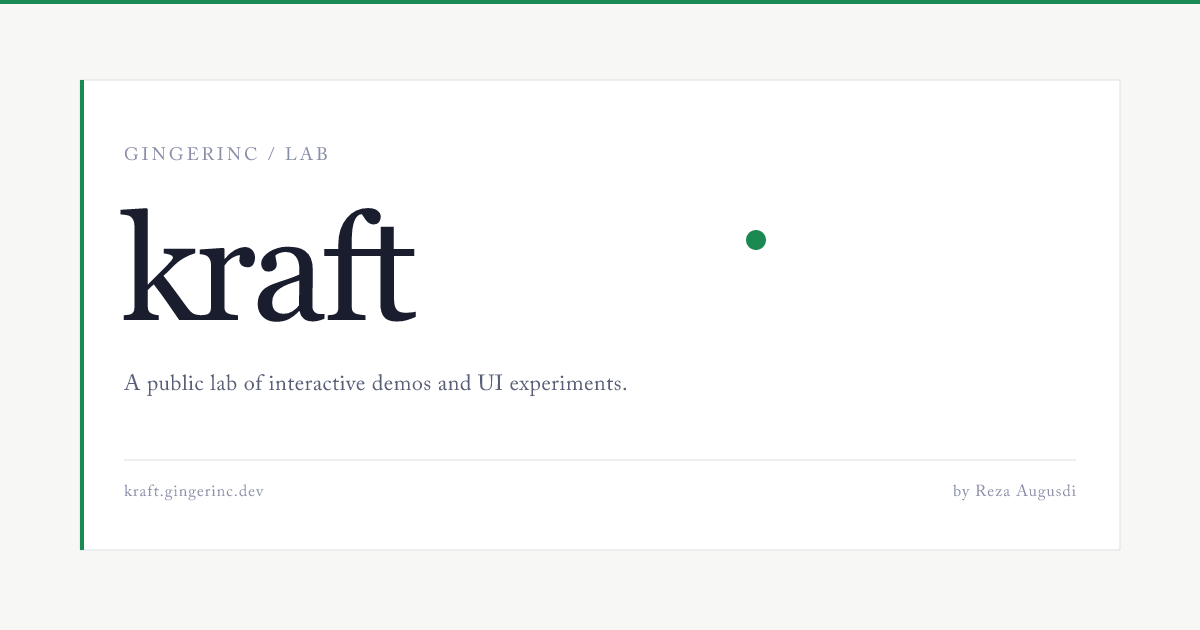
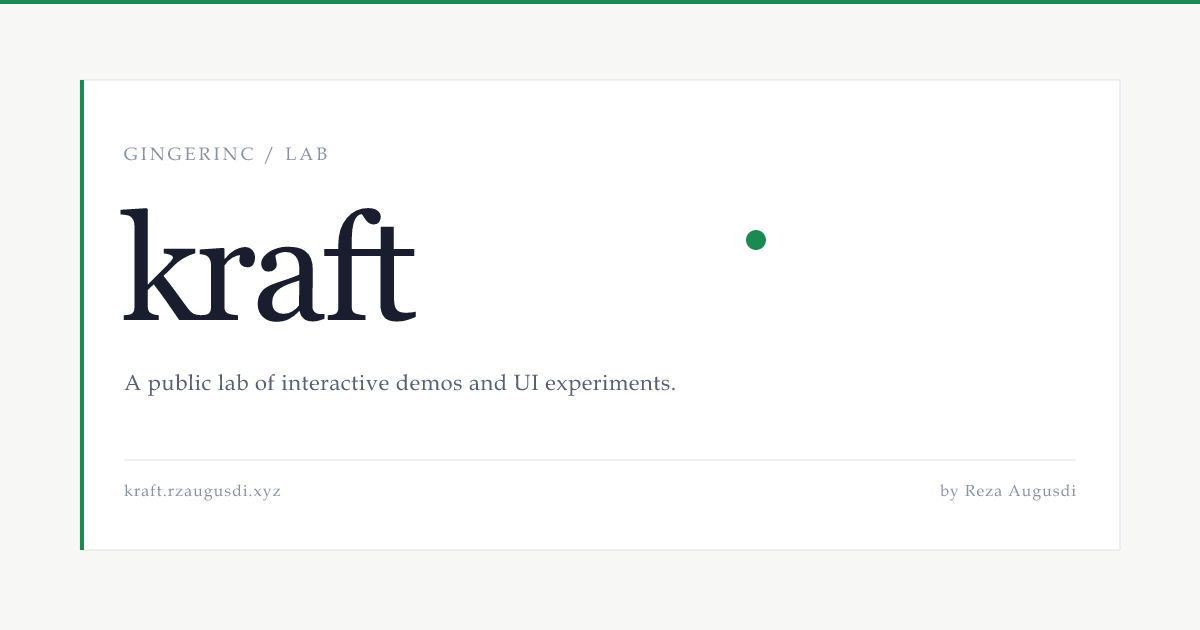
feat: configure Kraft custom domain

diff --git a/README.md b/README.md
@@ -1,0 +1,11 @@
+# kraft
+
+A public lab of interactive experiments at https://kraft.rzaugusdi.xyz.
+
+## Domain configuration
+
+Edit `SITE_URL` in `site.config.mjs` to change the canonical domain, and `PERSONAL_SITE_URL` for the portfolio link. Run `bun --bun run build` to regenerate metadata and the social image, then deploy. Connect the new domain and configure its DNS separately in Vercel and the authoritative DNS provider.
+
+## Development
+
+`bun install`, then `bun --bun run dev`. Build with `bun --bun run build`; run browser tests with `bun run test`.
